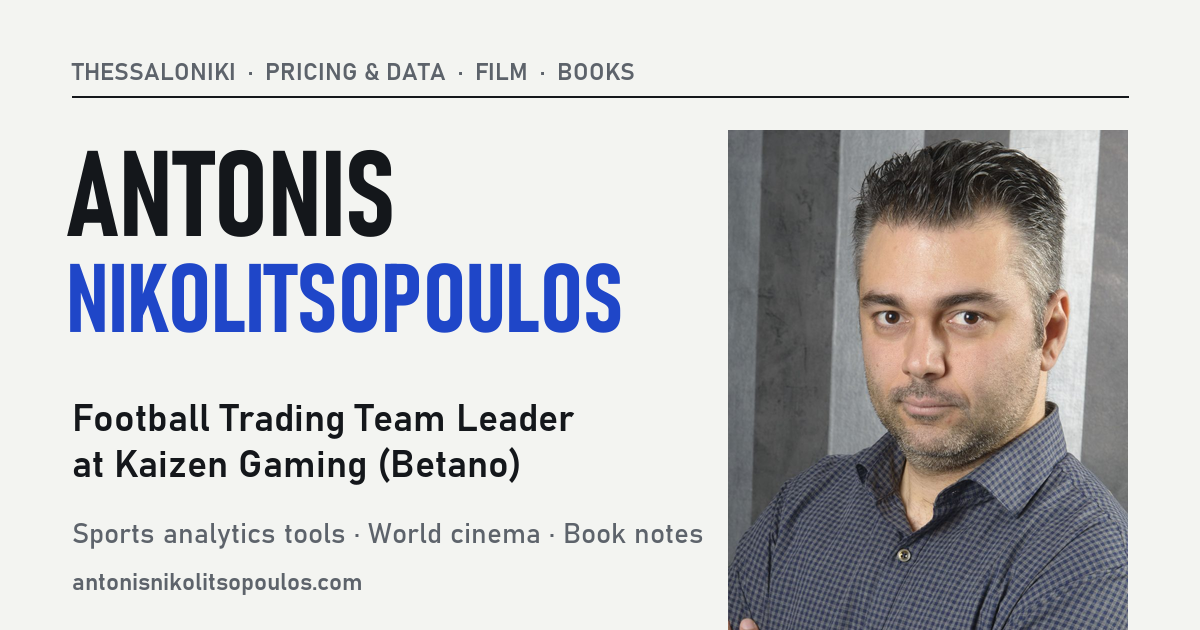
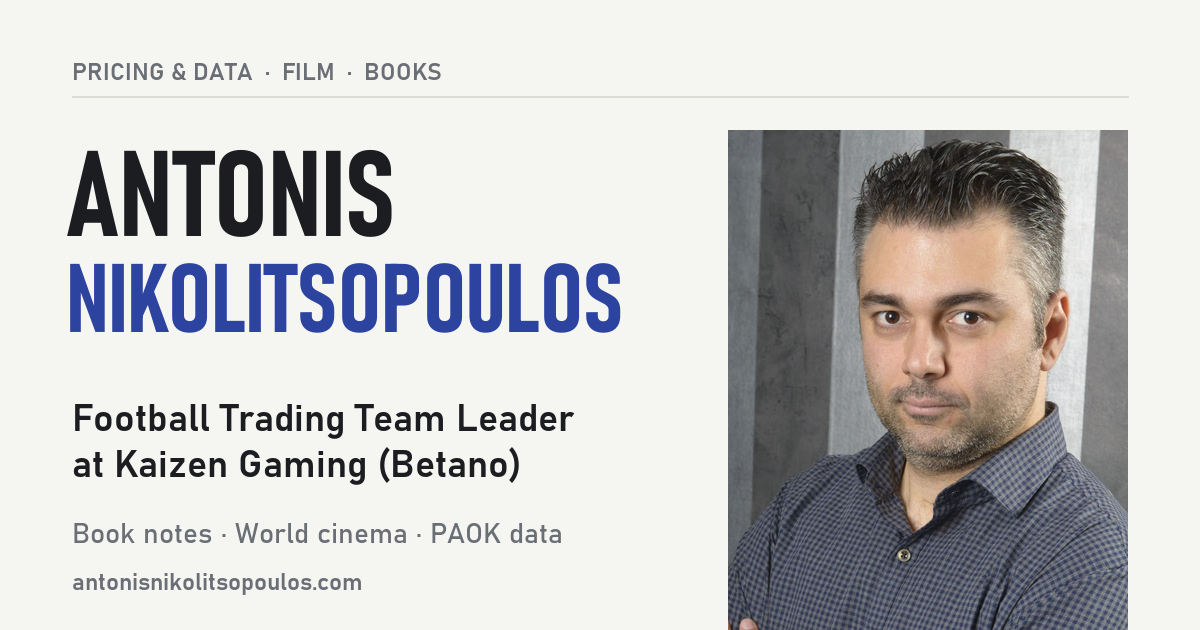
Reorder sections, drop odds compiler and the word tools, X second

Changed region(s): [[0.0308, 0.4222, 0.5242, 0.5429], [0.0617, 0.0905, 0.925, 0.181], [0.0617, 0.8143, 0.5858, 0.8746]]

diff --git a/index.html b/index.html
@@ -4,7 +4,7 @@
 <meta charset="utf-8">
 <meta name="viewport" content="width=device-width, initial-scale=1, viewport-fit=cover">
 <meta property="og:title" content="Antonis Nikolitsopoulos">
-<meta property="og:description" content="Football Trading Team Leader at Kaizen Gaming. Sports analytics tools, and writing on world cinema and decision science.">
+<meta property="og:description" content="Football Trading Team Leader at Kaizen Gaming. Writing on books, decision science and world cinema, and PAOK data projects.">
 <meta property="og:url" content="https://antonisnikolitsopoulos.com/">
 <meta property="og:type" content="website">
 <meta property="og:image" content="https://antonisnikolitsopoulos.com/og.png">
@@ -17,7 +17,7 @@
 <link rel="apple-touch-icon" href="/apple-touch-icon.png">
 <link rel="canonical" href="https://antonisnikolitsopoulos.com/">
 <title>Antonis Nikolitsopoulos</title>
-<meta name="description" content="Antonis Nikolitsopoulos, Football Trading Team Leader at Kaizen Gaming: sports analytics tools, and writing on world cinema and decision science.">
+<meta name="description" content="Antonis Nikolitsopoulos, Football Trading Team Leader at Kaizen Gaming: writing on books, decision science and world cinema, and PAOK data projects.">
 <link rel="preconnect" href="https://fonts.googleapis.com">
 <link rel="preconnect" href="https://fonts.gstatic.com" crossorigin>
 <link rel="stylesheet" href="https://fonts.googleapis.com/css2?family=Instrument+Serif:ital@0;1&family=Hanken+Grotesk:ital,wght@0,300..600;1,400&family=IBM+Plex+Mono:wght@400;500&display=swap">
@@ -229,7 +229,7 @@ footer {
       <h2 id="h-about">About</h2>
       <p>Football Trading Team Leader at <strong>Kaizen Gaming</strong>, the group behind Betano, pricing pre-event soccer markets at scale.</p>
       <p>The work combines pre-event pricing and quantitative modelling with building the teams and processes that turn data into prices.</p>
-      <p>The same discipline carries into independent projects: analytics hubs for PAOK football and basketball, and a card-based pricing model for the Greek Super League.</p>
+      <p>The same discipline carries into independent projects: analytics hubs for PAOK football and basketball.</p>
       <p>Alongside them, two publications on subjects that reward patience. <em>What Algo Missed</em> is an independent guide to world cinema, curated film by film and never sponsored. <em>The Edge</em> distils books on analytics, decision-making and management into practical takeaways.</p>
       <dl class="facts">
         <div><dt>Role</dt><dd>Football Trading Team Leader, Kaizen Gaming</dd></div>
@@ -243,17 +243,6 @@ footer {
     <div class="sec-head"><h2 id="h-writing">Writing</h2><span>Film &amp; books</span></div>
     <ul class="rows">
       <li class="row">
-        <a href="https://whatalgomissed.com/" target="_blank" rel="noopener">
-          <span class="tag film">Blog · World cinema</span>
-          <div>
-            <h3 class="title"><span>What Algo Missed</span></h3>
-            <p class="desc">A personal map of world cinema, built on the idea that the most honest, most alive filmmaking often comes from places the algorithm has no reason to recommend.</p>
-            <p class="meta"><span>Essays &amp; recommendations</span><span>Launched 2026</span></p>
-          </div>
-          <span class="go">whatalgomissed.com <i aria-hidden="true">→</i></span>
-        </a>
-      </li>
-      <li class="row">
         <a href="https://analyticsports.substack.com/" target="_blank" rel="noopener">
           <span class="tag">Blog · Book takeaways</span>
           <div>
@@ -264,6 +253,17 @@ footer {
           <span class="go">analyticsports.substack.com <i aria-hidden="true">→</i></span>
         </a>
       </li>
+      <li class="row">
+        <a href="https://whatalgomissed.com/" target="_blank" rel="noopener">
+          <span class="tag film">Blog · World cinema</span>
+          <div>
+            <h3 class="title"><span>What Algo Missed</span></h3>
+            <p class="desc">A personal map of world cinema, built on the idea that the most honest, most alive filmmaking often comes from places the algorithm has no reason to recommend.</p>
+            <p class="meta"><span>Essays &amp; recommendations</span><span>Launched 2026</span></p>
+          </div>
+          <span class="go">whatalgomissed.com <i aria-hidden="true">→</i></span>
+        </a>
+      </li>
     </ul>
   </section>
 
@@ -272,14 +272,6 @@ footer {
     <div class="feeds">
       <!-- posts:start -->
       <div class="feed">
-        <p class="tag film">What Algo Missed</p>
-        <ul>
-          <li><a href="https://whatalgomissed.com/p/what-algo-missed" target="_blank" rel="noopener"><time datetime="2026-05-28">28 May 2026</time><span>Some films take years to find you</span></a></li>
-          <li><a href="https://whatalgomissed.com/p/films-by-year" target="_blank" rel="noopener"><time datetime="2026-05-28">28 May 2026</time><span>All Films — Ranked by Year</span></a></li>
-          <li><a href="https://whatalgomissed.com/p/europa-european-cinema" target="_blank" rel="noopener"><time datetime="2026-05-11">11 May 2026</time><span>Europa</span></a></li>
-        </ul>
-      </div>
-      <div class="feed">
         <p class="tag">The Edge</p>
         <ul>
           <li><a href="https://analyticsports.substack.com/p/game-theory" target="_blank" rel="noopener"><time datetime="2026-08-13">13 Aug 2026</time><span>Game Theory</span></a></li>
@@ -287,12 +279,20 @@ footer {
           <li><a href="https://analyticsports.substack.com/p/how-to-win-the-world-cup" target="_blank" rel="noopener"><time datetime="2026-05-12">12 May 2026</time><span>How to Win the World Cup</span></a></li>
         </ul>
       </div>
+      <div class="feed">
+        <p class="tag film">What Algo Missed</p>
+        <ul>
+          <li><a href="https://whatalgomissed.com/p/what-algo-missed" target="_blank" rel="noopener"><time datetime="2026-05-28">28 May 2026</time><span>Some films take years to find you</span></a></li>
+          <li><a href="https://whatalgomissed.com/p/films-by-year" target="_blank" rel="noopener"><time datetime="2026-05-28">28 May 2026</time><span>All Films — Ranked by Year</span></a></li>
+          <li><a href="https://whatalgomissed.com/p/europa-european-cinema" target="_blank" rel="noopener"><time datetime="2026-05-11">11 May 2026</time><span>Europa</span></a></li>
+        </ul>
+      </div>
       <!-- posts:end -->
     </div>
   </section>
 
-  <section id="tools" aria-labelledby="h-tools">
-    <div class="sec-head"><h2 id="h-tools">Tools</h2><span>Greek football &amp; basketball data</span></div>
+  <section id="paok" aria-labelledby="h-paok">
+    <div class="sec-head"><h2 id="h-paok">PAOK</h2><span>Football &amp; basketball data</span></div>
     <ul class="rows">
       <li class="row">
         <a href="https://antonisnikolitsopoulos.com/paok-hub/" target="_blank" rel="noopener">
@@ -316,17 +316,6 @@ footer {
           <span class="go">/paok-basketball <i aria-hidden="true">→</i></span>
         </a>
       </li>
-      <li class="row">
-        <a href="https://tsimento.pythonanywhere.com/" target="_blank" rel="noopener">
-          <span class="tag">Model · Odds</span>
-          <div>
-            <h3 class="title"><span>Card Odds Compiler</span></h3>
-            <p class="desc">Prices Greek Super League matches from card data. It tracks how favourites and underdogs get booked, adjusts for each referee's tendencies and Big-4 bias, and breaks card averages down by team, coach era, odds range and venue.</p>
-            <p class="meta"><span>1X2 · Cards</span><span>2024-25 onward</span><span>Python web app</span></p>
-          </div>
-          <span class="go">tsimento.pythonanywhere.com <i aria-hidden="true">→</i></span>
-        </a>
-      </li>
     </ul>
   </section>
 
@@ -334,8 +323,8 @@ footer {
     <div class="sec-head"><h2 id="h-else">Elsewhere</h2><span>Follow or get in touch</span></div>
     <div class="else">
       <a href="https://www.linkedin.com/in/antonis-nikolitsopoulos/" target="_blank" rel="noopener">LinkedIn <span>/in/antonis-nikolitsopoulos</span></a>
-      <a href="https://letterboxd.com/nikolitso/" target="_blank" rel="noopener">Letterboxd <span>/nikolitso</span></a>
       <a href="https://x.com/nikolitso" target="_blank" rel="noopener">X <span>@nikolitso</span></a>
+      <a href="https://letterboxd.com/nikolitso/" target="_blank" rel="noopener">Letterboxd <span>/nikolitso</span></a>
       <a href="https://whatalgomissed.com/" target="_blank" rel="noopener">Read <span>What Algo Missed</span></a>
       <a href="https://analyticsports.substack.com/" target="_blank" rel="noopener">Read <span>The Edge</span></a>
     </div>

diff --git a/scripts/update_posts.py b/scripts/update_posts.py
@@ -11,8 +11,8 @@ from email.utils import parsedate_to_datetime
 from pathlib import Path
 
 FEEDS = [
-    ("What Algo Missed", "film", "https://whatalgomissed.com/feed"),
     ("The Edge", "", "https://analyticsports.substack.com/feed"),
+    ("What Algo Missed", "film", "https://whatalgomissed.com/feed"),
 ]
 PER_FEED = 3
 INDEX = Path(__file__).resolve().parent.parent / "index.html"
